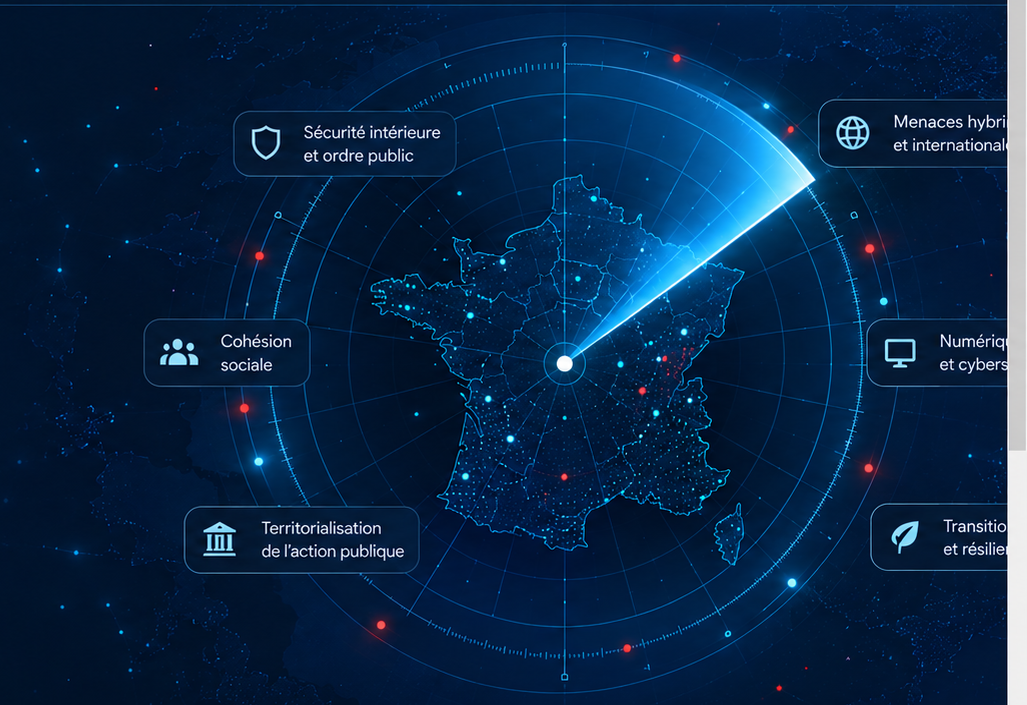
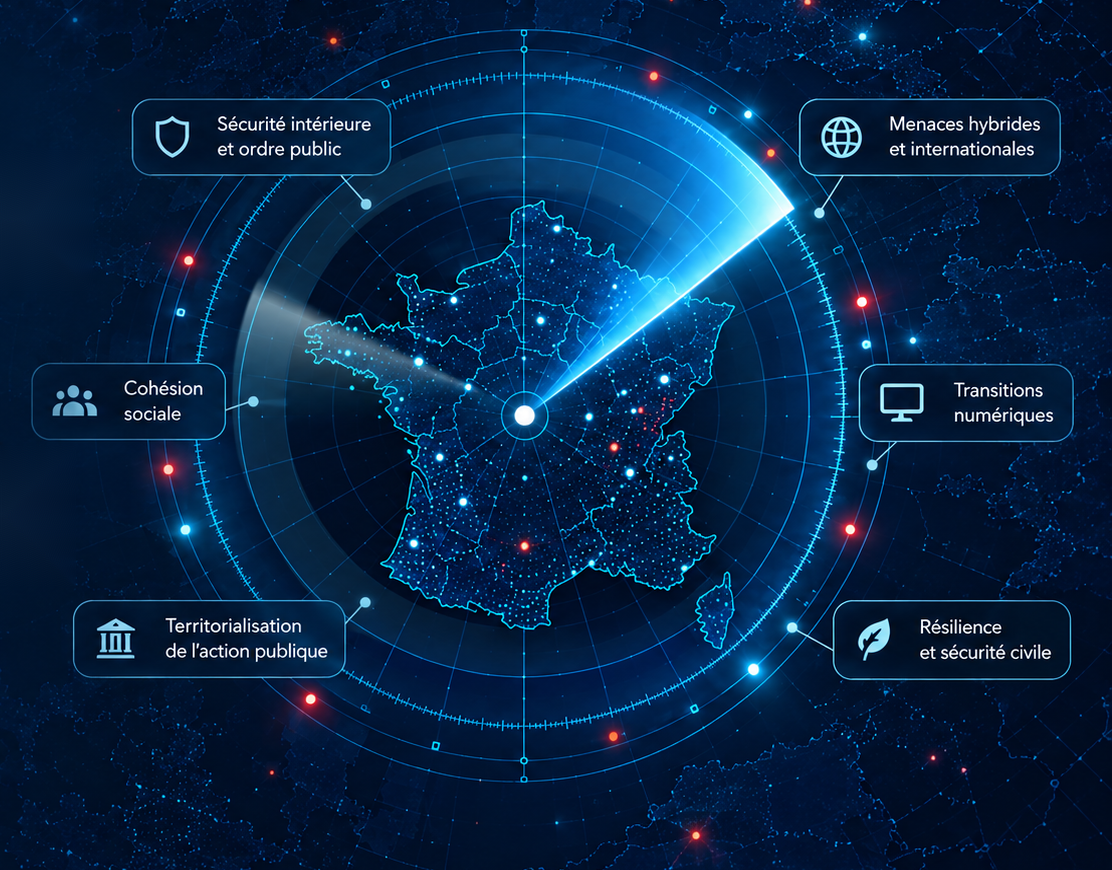
Add files via upload

diff --git a/src/LandingPage.css b/src/LandingPage.css
@@ -1,8 +1,7 @@
 /* =========================================================
    QUIRITÈS VEILLE LAB — LANDING RADAR / CARTE ENTIÈRE
-   La carte occupe un panneau visuel autonome à droite.
-   Le visuel est dimensionné par sa HAUTEUR : la France, le radar
-   et les cartouches latéraux restent visibles intégralement.
+   Le panneau radar utilise un asset dédié qui ne contient que la carte.
+   L'asset est toujours affiché EN ENTIER : aucun crop, aucun cover.
    Aucun style des onglets n'est modifié.
    ========================================================= */
 
@@ -21,54 +20,49 @@
   position:absolute;
   z-index:0;
   inset:0 0 0 auto;
-  width:64%;
+  width:63%;
   height:100%;
   overflow:hidden;
+  display:flex;
+  align-items:center;
+  justify-content:flex-end;
   background:#03162e;
 }
 
-/* IMPORTANT : hauteur contrainte, largeur automatique.
-   L'image déborde volontairement à GAUCHE du panneau : cela masque
-   la partie éditoriale présente dans le visuel source, sans jamais
-   couper la carte ni les cartouches situés autour du radar. */
-.qlab-radar-landing__visual>img{
-  position:absolute;
-  z-index:0;
-  top:50%;
-  right:0;
-  height:94%;
-  width:auto;
-  max-width:none;
+/* Le frame reprend exactement le ratio de l'asset 1112 x 870.
+   Il se dimensionne d'abord selon l'espace disponible, puis conserve
+   l'intégralité de l'image à l'intérieur. */
+.qlab-radar-landing__visual-frame{
+  position:relative;
+  flex:0 0 auto;
+  width:min(100%, calc(100svh * 1.27816092));
+  aspect-ratio:1112 / 870;
+  max-height:100%;
+}
+
+.qlab-radar-landing__visual-frame>img{
+  display:block;
+  width:100%;
+  height:100%;
   object-fit:contain;
-  transform:translateY(-50%);
-  filter:saturate(.98) contrast(1.02) brightness(.96);
+  object-position:center center;
+  filter:saturate(.98) contrast(1.02) brightness(.97);
   user-select:none;
   pointer-events:none;
 }
 
-/* Transition douce entre le texte réel à gauche et le visuel à droite. */
+/* Le fondu ne couvre plus la carte : il adoucit seulement la jonction
+   sur une bande très étroite à gauche. */
 .qlab-radar-landing__visual-fade{
-  position:absolute;
-  z-index:1;
-  inset:0;
-  pointer-events:none;
-  background:linear-gradient(
-    90deg,
-    #03162e 0%,
-    rgba(3,22,46,.99) 5%,
-    rgba(3,22,46,.88) 10%,
-    rgba(3,22,46,.45) 17%,
-    rgba(3,22,46,.10) 25%,
-    transparent 34%
-  );
+  display:none;
 }
 
 .qlab-radar-landing__content{
   position:relative;
-  z-index:3;
+  z-index:4;
   height:100%;
   display:grid;
-  grid-template-columns:minmax(500px,42%) minmax(0,58%);
+  grid-template-columns:minmax(500px,39%) minmax(0,61%);
 }
 
 .qlab-radar-landing__copy{
@@ -107,7 +101,7 @@
 .qlab-radar-landing h1>span{
   display:block;
   color:#f7f9fd;
-  font-size:clamp(46px,4.05vw,68px);
+  font-size:clamp(44px,3.55vw,60px);
   font-weight:300;
 }
 
@@ -115,7 +109,8 @@
   display:block;
   margin-top:7px;
   color:#f7f9fd;
-  font-size:clamp(51px,4.45vw,75px);
+  font-size:clamp(48px,3.8vw,64px);
+  white-space:nowrap;
   font-weight:350;
 }
 
@@ -245,9 +240,9 @@
 .qlab-radar-landing__radar-sweep{
   position:absolute;
   z-index:2;
-  left:58%;
-  top:50%;
-  width:min(43vw,690px);
+  left:47.2%;
+  top:47.8%;
+  width:68%;
   aspect-ratio:1;
   transform:translate(-50%,-50%);
   transform-origin:center;
@@ -276,8 +271,8 @@
 .qlab-radar-landing__pulse{
   position:absolute;
   z-index:2;
-  left:58%;
-  top:50%;
+  left:47.2%;
+  top:47.8%;
   width:12px;
   height:12px;
   border:2px solid rgba(116,225,255,.55);
@@ -383,15 +378,14 @@
   cursor:pointer;
 }
 
-/* Écrans plus étroits : on garde d'abord toute la carte, quitte à la réduire. */
+/* Écrans plus étroits : on réduit la carte, on ne la recadre jamais. */
 @media(max-width:1220px){
-  .qlab-radar-landing__visual{width:61%}
-  .qlab-radar-landing__visual>img{height:88%}
-  .qlab-radar-landing__content{grid-template-columns:minmax(460px,44%) minmax(0,56%)}
+  .qlab-radar-landing__visual{width:62%}
+  .qlab-radar-landing__content{grid-template-columns:minmax(460px,42%) minmax(0,58%)}
   .qlab-radar-landing__copy{padding-left:36px;padding-right:16px}
   .qlab-radar-landing__logo{width:215px;margin-bottom:24px}
-  .qlab-radar-landing h1>span{font-size:43px}
-  .qlab-radar-landing h1>strong{font-size:49px}
+  .qlab-radar-landing h1>span{font-size:40px}
+  .qlab-radar-landing h1>strong{font-size:44px;white-space:normal}
   .qlab-radar-landing__lead{font-size:20px}
   .qlab-radar-landing__intro{font-size:15.5px;margin-top:21px}
 }
@@ -401,31 +395,12 @@
     height:auto;
     min-height:100svh;
     overflow:auto;
+    display:flex;
+    flex-direction:column;
   }
-
-  .qlab-radar-landing__visual{
-    position:relative;
-    width:100%;
-    height:620px;
-    margin-top:0;
-    overflow:hidden;
-  }
-
-  .qlab-radar-landing__visual>img{
-    top:50%;
-    right:50%;
-    height:auto;
-    width:100%;
-    max-width:100%;
-    transform:translate(50%,-50%);
-    object-fit:contain;
-  }
-
-  .qlab-radar-landing__visual-fade,
-  .qlab-radar-landing__radar-sweep,
-  .qlab-radar-landing__pulse{display:none}
 
   .qlab-radar-landing__content{
+    order:1;
     height:auto;
     display:block;
   }
@@ -433,6 +408,25 @@
   .qlab-radar-landing__copy{
     padding:36px 28px 30px;
   }
+
+  .qlab-radar-landing__visual{
+    order:2;
+    position:relative;
+    width:100%;
+    height:auto;
+    min-height:0;
+    overflow:hidden;
+    justify-content:center;
+  }
+
+  .qlab-radar-landing__visual-frame{
+    width:100%;
+    max-width:1112px;
+    aspect-ratio:1112 / 870;
+  }
+
+  .qlab-radar-landing__radar-sweep,
+  .qlab-radar-landing__pulse{display:none}
 }
 
 @media(max-width:620px){

diff --git a/src/LandingPage.jsx b/src/LandingPage.jsx
@@ -18,11 +18,13 @@ export default function LandingPage({ onEnter }) {
   return (
     <div className="qlab-radar-landing">
       <div className="qlab-radar-landing__visual" aria-hidden="true">
-        <img src={radarVisual} alt="" />
+        <div className="qlab-radar-landing__visual-frame">
+          <img src={radarVisual} alt="" />
+          <div className="qlab-radar-landing__radar-sweep" />
+          <div className="qlab-radar-landing__pulse qlab-radar-landing__pulse--one" />
+          <div className="qlab-radar-landing__pulse qlab-radar-landing__pulse--two" />
+        </div>
         <div className="qlab-radar-landing__visual-fade" />
-        <div className="qlab-radar-landing__radar-sweep" />
-        <div className="qlab-radar-landing__pulse qlab-radar-landing__pulse--one" />
-        <div className="qlab-radar-landing__pulse qlab-radar-landing__pulse--two" />
       </div>
 
       <main className="qlab-radar-landing__content">
